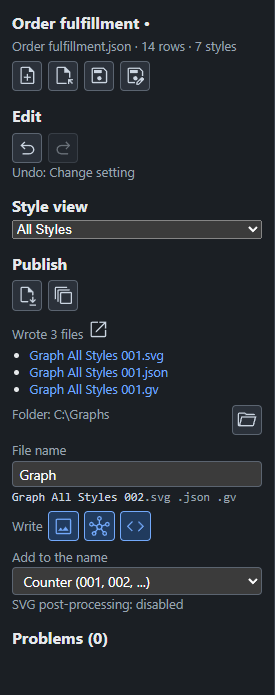
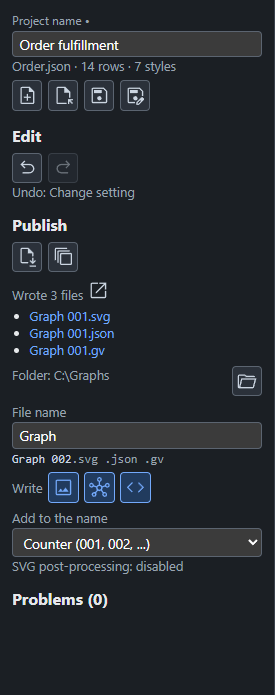
Document the project name box in the left pane
Also say that source_workbook in the Knowledge Graph is the project file's
name, or the project name until the project is saved.

diff --git a/content/docs/left-pane/index.md b/content/docs/left-pane/index.md
@@ -8,8 +8,13 @@ undo, the choice of view, publishing, and the messages about what the app found.
 
 ## The project
 
-The top of the pane has the **name of the project**. A dot after the name means there are changes that are not saved. Under it are the file
-the project was saved in, or **Not saved yet**, the number of rows that have something in them, and the number of styles.
+The top of the pane has the **Project name**, in a box you can type in. A new project is called Untitled. The name is kept in the project
+file, and it is the name of the graph on the first line of the [DOT](/docs/dot/), such as `digraph "Order fulfillment"`. It is not the name of
+the file: you can rename one without the other. Press Enter or click away to keep a new name, or press Esc to put the old one back. A blank
+name is not accepted. A change of name can be undone like any other change.
+
+A dot after the words **Project name** means there are changes that are not saved. Under the box are the file the project was saved in, or
+**Not saved yet**, the number of rows that have something in them, and the number of styles.
 
 | Button | What it does | Keys |
 | --- | --- | --- |

diff --git a/content/docs/knowledge-graph/index.md b/content/docs/knowledge-graph/index.md
@@ -49,7 +49,7 @@ messages**, with its row number.
 - **Properties** from the **Properties** column of a row or a style are in a `properties` object, and keep their types. A bare number is a
   number, `true` and `false` are booleans, and a quoted value is text. The properties of a style are listed with the style, and the
   properties of a node or an edge are its own.
-- The file has the name of the project in `source_workbook`, a name kept from the [Excel tool](/docs/from-excel/) that this app grew out of, and the time it was made.
+- The file says where it came from in `source_workbook`, a name kept from the [Excel tool](/docs/from-excel/) that this app grew out of. It is the name of the project file, or the project name when the project is not saved yet. The time it was made is there too.
 
 ## The format
 
